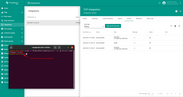
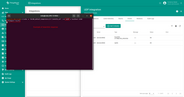
Added UDP downlink example screenshot

diff --git a/docs/pe/edge/user-guide/integrations/udp.md b/docs/pe/edge/user-guide/integrations/udp.md
@@ -284,16 +284,19 @@ Received data can be viewed in the Uplink converter. In the **'In'** and **'Out'
 
 ## Send downlink message
 
-Now let's check downlink functionality. Let's add **firmware** shared attribute:
+Now let's check downlink functionality. 
+
+Now we'll need to send again message to UDP integration to see downlink response.
+Please use the same command that was used before, but replace parameter **q1** to **q120**. With these changes **nc** utility will wait 120 seconds for downlink message.
+Additionally, please remove **w1** parameter.
+
+After you'll send uplink command, you have **120 seconds** to add **firmware** shared attribute:
 
 {% include images-gallery.html imageCollection="addSharedAttribute" %}
 
 To make sure that downlink message sent to integration you can check 'Events' tab of integration:
 
 {% include images-gallery.html imageCollection="downlinkMessage" %}
-
-Now we'll need to send again message to UDP integration and see downlink response.
-Please use the same command that was used before.
 
 An example of sent message and a response from ThingsBoard Edge in the terminal:
 
